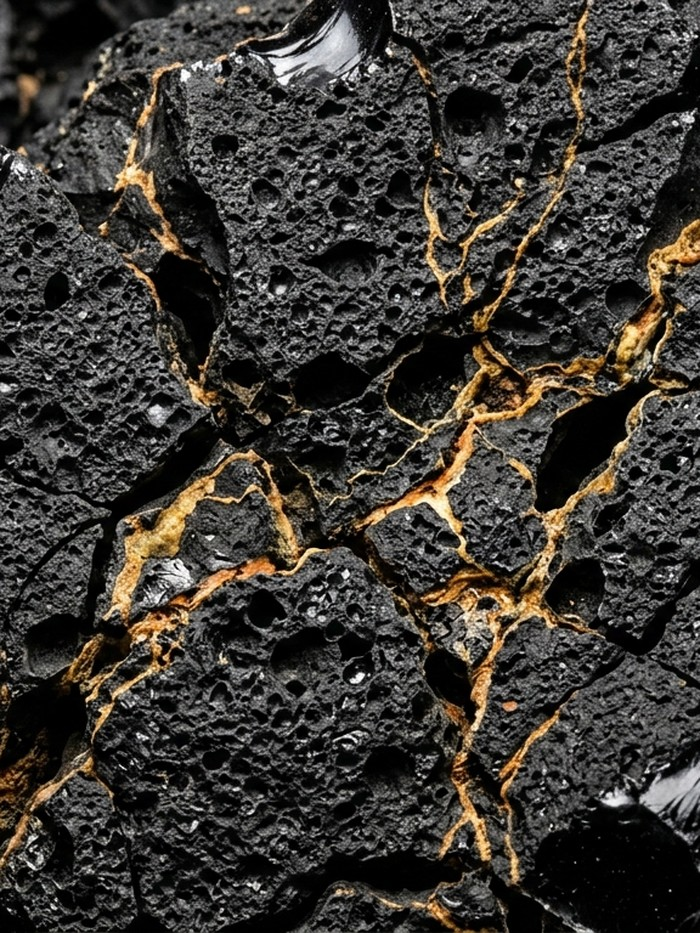
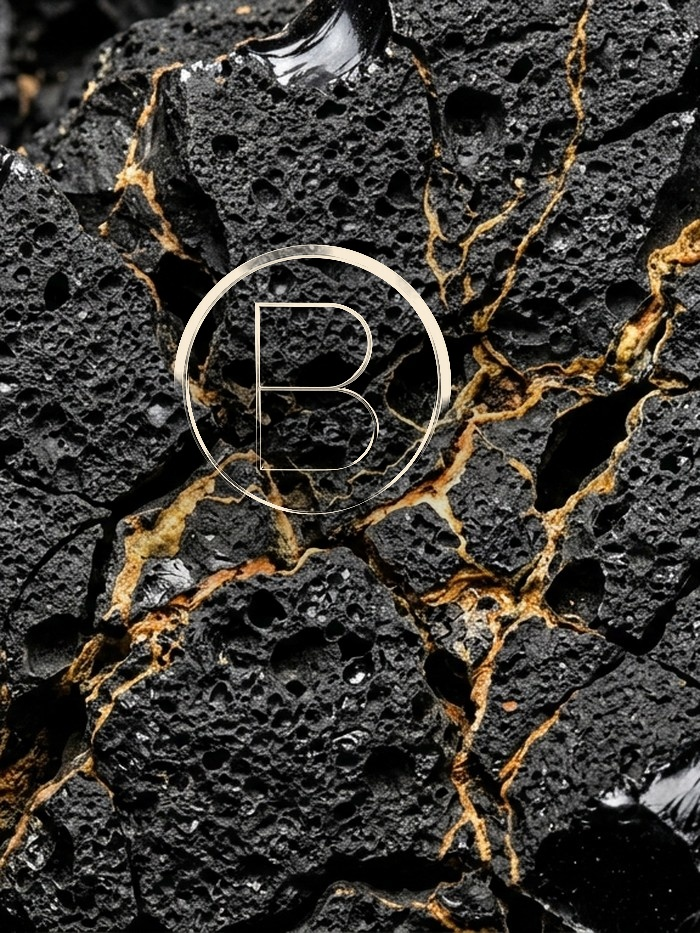
feat: hero final - emblema tallado en la roca (compuesto), CTA con flecha, trust-strip, eliminado emblem-wrap flotante

Changed region(s): [[0.21, 0.2176, 0.72, 0.6217], [0.66, 0.3108, 0.69, 0.3419]]

diff --git a/css/style.css b/css/style.css
@@ -86,31 +86,6 @@ nav a:hover {
   opacity: 1;
 }
 
-.emblem-wrap {
-  position: absolute;
-  top: 49%;
-  left: 37.6%;
-  transform: translate(-50%, -50%);
-  z-index: 1;
-}
-.emblem-wrap img {
-  width: clamp(260px, 20vw, 400px);
-  height: auto;
-  display: block;
-  position: relative;
-  z-index: 1;
-}
-
-.emblem-wrap::before {
-  content: "";
-  position: absolute;
-  inset: -8%;
-  border-radius: 50%;
-  background: radial-gradient(circle, rgba(240, 201, 135, 0.18) 0%, rgba(240, 201, 135, 0) 70%);
-  z-index: 0;
-  pointer-events: none;
-}
-
 .hero-copy {
   position: relative;
   z-index: 2;
@@ -134,39 +109,79 @@ nav a:hover {
 }
 
 .hero-copy h1 {
-  font-size: 42px;
+  font-size: 50px;
   font-weight: 600;
-  line-height: 1.18;
-  letter-spacing: -0.5px;
+  line-height: 1.14;
+  letter-spacing: -0.8px;
 }
 
 .hero-sub {
-  margin-top: 18px;
-  font-size: 15.5px;
+  margin-top: 20px;
+  font-size: 16px;
   color: rgba(241, 241, 240, 0.65);
   line-height: 1.7;
-  max-width: 400px;
+  max-width: 410px;
+}
+
+.hero-cta-row {
+  display: flex;
+  align-items: center;
+  gap: 32px;
+  margin-top: 40px;
 }
 
 .hero-cta {
   display: inline-flex;
-  align-items: baseline;
+  align-items: center;
   gap: 10px;
-  margin-top: 32px;
+  font-size: 14px;
+  font-weight: 600;
+  background: var(--gold);
+  color: #101012;
+  padding: 14px 26px;
+  border-radius: var(--radius);
+  transition: opacity 0.2s ease;
+}
+
+.hero-cta:hover {
+  opacity: 0.88;
+}
+
+.hero-secondary {
   font-size: 14px;
   font-weight: 500;
+  color: var(--text);
+  opacity: 0.75;
+  border-bottom: 1px solid rgba(241, 241, 240, 0.3);
+  padding-bottom: 2px;
+  transition: opacity 0.2s ease;
 }
 
-.hero-cta .line {
-  width: 22px;
-  height: 2px;
-  background: var(--gold);
-  display: inline-block;
-  transition: width 0.25s ease;
+.hero-secondary:hover {
+  opacity: 1;
 }
 
-.hero-cta:hover .line {
-  width: 34px;
+.trust-strip {
+  display: flex;
+  gap: 40px;
+  margin-top: 56px;
+  padding-top: 26px;
+  border-top: 1px solid rgba(241, 241, 240, 0.12);
+}
+
+.trust-item .num {
+  font-size: 24px;
+  font-weight: 700;
+  color: var(--text);
+  letter-spacing: -0.5px;
+}
+
+.trust-item .lbl {
+  font-size: 12.5px;
+  color: rgba(241, 241, 240, 0.5);
+  margin-top: 4px;
+  line-height: 1.4;
+  max-width: 140px;
 }
 
 /* ---------- Layout helpers ---------- */
@@ -455,15 +470,6 @@ footer {
   .rock-col {
     width: 100%;
     opacity: 0.35;
-  }
-
-  .emblem-wrap {
-    left: 50%;
-    top: 55%;
-  }
-
-  .emblem-wrap img {
-    width: 160px;
   }
 
   .hero-copy {

diff --git a/index.html b/index.html
@@ -26,16 +26,29 @@
     </nav>
   </header>
 
-  <div class="emblem-wrap">
-    <img src="assets/img/emblema-objetiva.png" alt="" aria-hidden="true">
-  </div>
-
   <div class="hero-copy">
     <div class="hero-copy-inner">
       <div class="eyebrow">Correduría de seguros — Tenerife</div>
       <h1>Seguros con Objetividad</h1>
       <p class="hero-sub">10 años ayudando a familias y empresas en Tenerife a elegir bien, sin ataduras a una sola marca.</p>
-      <a href="#contacto" class="hero-cta">Pide tu presupuesto <span class="line"></span></a>
+      <div class="hero-cta-row">
+        <a href="#contacto" class="hero-cta">Pide tu presupuesto <span class="arrow">→</span></a>
+        <a href="#nosotros" class="hero-secondary">Conoce el equipo</a>
+      </div>
+      <div class="trust-strip">
+        <div class="trust-item">
+          <div class="num">10</div>
+          <div class="lbl">años en Tenerife</div>
+        </div>
+        <div class="trust-item">
+          <div class="num">4</div>
+          <div class="lbl">líneas de seguro</div>
+        </div>
+        <div class="trust-item">
+          <div class="num">100%</div>
+          <div class="lbl">independientes de aseguradora</div>
+        </div>
+      </div>
     </div>
   </div>
 